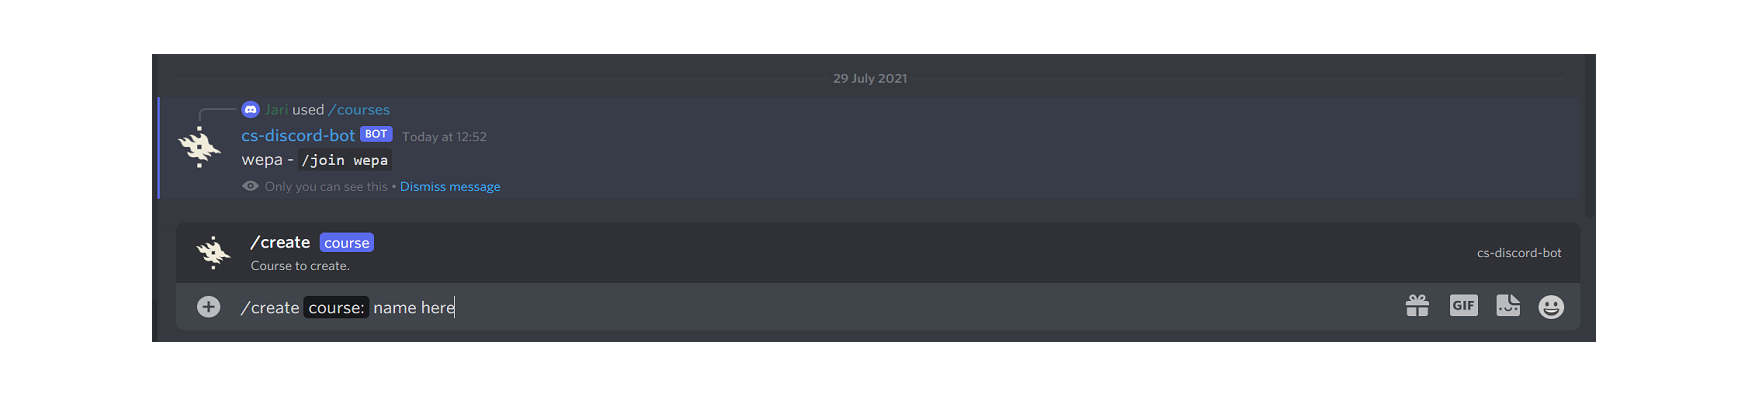
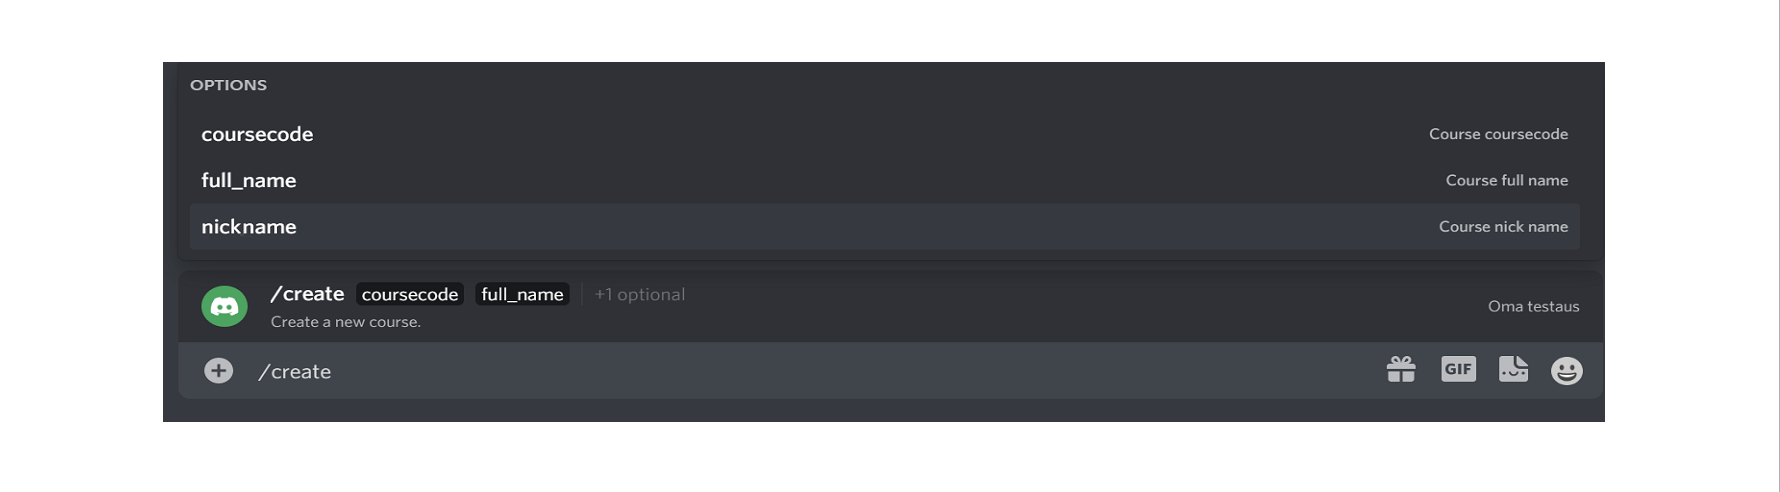
Update after sprint 6

Changed region(s): [[0.0615, 0.1188, 0.9226, 0.8614], [0.4613, 0.1782, 0.5228, 0.2079]]

diff --git a/documentation/usermanual-faculty.md b/documentation/usermanual-faculty.md
@@ -31,11 +31,19 @@ Commands can be used by typing to the bottom area `/` and after that the command
 
 ### Authentication
 
-To be able to use all the faculty commands, you need to authenticate yourself. Use command `/auth` and you receive an authentication link. Click the link and go through the verfication steps. Now you have the teacher role and you can use all the commands.
+To be able to use all the faculty commands, you need to authenticate yourself. Use command `/auth` and you receive an authentication link. Click the link and go through the verfication steps. Now you have the faculty role and you can use all the commands.
 
 ### Creating a new course
 
-You can create new course with command `/create`. Give the command and after that the course name. At the moment we prefer that you give course a short nick name because it is more readable on Discord for the users.
+You can create new course with command `/create`. Give the command and after that give the _course code_, course´s _full name_ and course´s _nickname_. Nickname is optional and if not given then the coursecode will be also course´s nickname. **Note** that nickname is the value that is used as course´s name that users see on the Discord´s left column. So, we prefer that you give course a short nickname because it is more readable on Discord for the users. **Note** also that nickname is unique value.
+
+#### Multilingual course name
+
+If your course has multilingual course name, enter all the information in the _full name_ field.
+
+#### Open university course
+
+If your course is an open university course, use the abbreviation **MOOC** in the _full name_ field next to your course name.
 
 ![create](./images/create.png)
 
@@ -43,11 +51,11 @@ After the course is created there is the invitation link for the course on the c
 
 ### Create Telegram bridge
 
-Today, many courses use Telegram discussion channels. At the moment there are students that might use only one of these platforms (Discord or Telegram). This is why we want to connect Discord and Telegram chat channels so everyone can see all the conversations. The following steps are made in Telegram.
+Today, many courses use Telegram discussion channels. At the moment there are students that might use only one of these platforms (Discord or Telegram). Therefore, we want to connect Discord and Telegram chat channels so everyone can see all the conversations. The following steps are made in Telegram.
 
 #### Add our Telegram bot to your Telegram channel
 
-Invite the **@Discord kurssibotti** bot to your Telegram channel. First go to your channel. From the right top corner choose three dots and from the drop down menu choose _Add members_.
+Invite the **@cs-discord-bot** bot to your Telegram channel. First go to your channel. From the right top corner choose three dots and from the drop-down menu choose _Add members_.
 
 Give the bot admin role (choose channel member and give the bot admin rights). You need to have an admin role to do this change. Under _What can this admin do?_ mark all the showing rights off.
 
@@ -73,30 +81,41 @@ The `/create` command automatically creates three sub-channels for the course. T
 
 ![newchannel](./images/newchannel.png)
 
-Note that the channel name you give is the end part of the name. For example in the picture new channel will be created with name _wepa_feedback_.
+Note that the channel name you give is the end part of the name. For example, in the picture new channel will be created with name _wepa_feedback_.
 
-To remove added text channel use `/removechannel` command followed by the name of the text channel to be removed e.g. `/removechannel feedback` removes _wepa_feedback_. This command must also be used inside the course you want the channel to be removed. Note that announcements or general channels can not be removed.
+To remove added text channel use `/removechannel` command followed by the name of the text channel to be removed e.g., `/removechannel feedback` removes _wepa_feedback_. This command must also be used inside the course you want the channel to be removed. Note that announcements or general channels can not be removed.
 
 ## How to make course secret
-Once the course is created, it can be made hidden. This means joining the course channel is only possible via link. To make a secret course use the `/hide` command followed by the course name. e.g. `/hide wepa`. The secret courses can be identified by the lock emoji. 
+Once the course is created, it can be made hidden. This means joining the course channel is only possible via link. To make a secret course use the `/hide` command followed by the course name. e.g.,, `/hide wepa`. The secret courses can be identified by the lock emoji. 
 
-To make the course public again use the `/unhide` command followed by the course name. e.g. `/unhide wepa`. Public courses can be found with `/courses` command and with `/join` command, unlike secret courses.
+To make the course public again use the `/unhide` command followed by the course name. e.g., `/unhide wepa`. Public courses can be found with `/courses` command and with `/join` command, unlike secret courses.
+
+## How to add instructor to a course
+Students can use the `/instructors` command on a course and see all the instructors on that course. _Faculty_ members and the ones who already have the _course instructor_ role can give other users this course instructor role. The command is `/addinstructor` the value to give is the username you want to give the instructor role. Use this command inside the course you want the role to be.
+
+## How to edit course name information
+
+The `/edit` command allows you to edit the information for the course you are in. You can change the _course code_, _full name_ and _nickname_. If you change the value users see on the Discord´s left column, this value is either the course code or nickname depending on which values the course is based on, you have 15 minutes cooldown until you can use the command again.
+
+![edit](./images/edit.png)
 
 ### List of commands
 
 Command | Explanation
 --------|-----------
-/auth | Returns the URL from which the teacher role can be requested.
-/create | Create a new course, e.g. /create weba.
-/hide | Make given course private, e.g. /hide weba.
-/unhide | Make given course public, e.g. /unhide weba.
-/newchannel | Create new text channel inside a course, e.g. /newchannel feedback.
-/removechannel | Remove given text channel inside a course, e.g. /removechannel feedback.
+/auth | Returns the URL where the faculty role can be obtained.
+/create | Create a new course. 
+/hide | Make given course private, e.g., /hide weba.
+/unhide | Make given course public, e.g., /unhide weba.
+/newchannel | Create new text channel inside a course, e.g., /newchannel feedback.
+/removechannel | Remove given text channel inside a course, e.g., /removechannel feedback.
 /courses | Returns a list of all courses.
+/edit | Edit course information, options; coursecode, full name, nickname
 /help | Returns a list of commands with info or info about a specific command.
 /instructors | Used in course channel returns a list of course instructors. Can be used anywhere when a parameter is given.
-/join | Joins you into the course given, e.g. /join ohpe.
-/leave | Remove you from the course given, e.g. /leave ohpe.
+/addinstructor | Give instructor role to another user, e.g., /addinstructor @username.
+/join | Joins you into the course given, e.g., /join ohpe.
+/leave | Remove you from the course given, e.g., /leave ohpe.
 
 ### Material
 

diff --git a/documentation/projectprogress.md b/documentation/projectprogress.md
@@ -1,17 +1,21 @@
 # Project progress
 
-[Product backlog](https://helsinkifi-my.sharepoint.com/:x:/g/personal/azkantol_ad_helsinki_fi/EcVicYGqMdlEjiGGg6eTTlIBMrOWm9k-SRlgXDEDUI_g5Q?e=oJJL4O&action=embedview&wdbipreview=true&wdHideSheetTabs=true&Item=ProductBacklog)
+[Product backlog](https://helsinkifi-my.sharepoint.com/:x:/g/personal/azkantol_ad_helsinki_fi/EXotXTenqklFnjJfmTqnzMoB6UpvxAZ4OACvC3MywKMIjQ?e=o8bycQ&action=embedview&wdbipreview=true&wdHideSheetTabs=true&Item=ProductBacklog)
 
-[Definition of Done](https://helsinkifi-my.sharepoint.com/:x:/g/personal/azkantol_ad_helsinki_fi/EcVicYGqMdlEjiGGg6eTTlIBMrOWm9k-SRlgXDEDUI_g5Q?e=oJJL4O&action=embedview&wdbipreview=true&wdHideSheetTabs=true&Item=DoD)
+[Definition of Done](https://helsinkifi-my.sharepoint.com/:x:/g/personal/azkantol_ad_helsinki_fi/EXotXTenqklFnjJfmTqnzMoB6UpvxAZ4OACvC3MywKMIjQ?e=o8bycQ&action=embedview&wdbipreview=true&wdHideSheetTabs=true&Item=DoD)
 
-[Sprint 4 backlog](https://helsinkifi-my.sharepoint.com/:x:/g/personal/azkantol_ad_helsinki_fi/EcVicYGqMdlEjiGGg6eTTlIBMrOWm9k-SRlgXDEDUI_g5Q?e=oJJL4O&action=embedview&wdbipreview=true&wdHideSheetTabs=true&Item=Sprint4)
+[Sprint 6 backlog](https://helsinkifi-my.sharepoint.com/:x:/g/personal/azkantol_ad_helsinki_fi/EXotXTenqklFnjJfmTqnzMoB6UpvxAZ4OACvC3MywKMIjQ?e=o8bycQ&action=embedview&wdbipreview=true&wdHideSheetTabs=true&Item=Sprint6)
 
-[Sprint 3 backlog](https://helsinkifi-my.sharepoint.com/:x:/g/personal/azkantol_ad_helsinki_fi/EcVicYGqMdlEjiGGg6eTTlIBMrOWm9k-SRlgXDEDUI_g5Q?e=oJJL4O&action=embedview&wdbipreview=true&wdHideSheetTabs=true&Item=Sprint3)
+[Sprint 5 backlog](https://helsinkifi-my.sharepoint.com/:x:/g/personal/azkantol_ad_helsinki_fi/EXotXTenqklFnjJfmTqnzMoB6UpvxAZ4OACvC3MywKMIjQ?e=o8bycQ&action=embedview&wdbipreview=true&wdHideSheetTabs=true&Item=Sprint5)
 
-[Sprint 2 backlog](https://helsinkifi-my.sharepoint.com/:x:/g/personal/azkantol_ad_helsinki_fi/EcVicYGqMdlEjiGGg6eTTlIBMrOWm9k-SRlgXDEDUI_g5Q?e=oJJL4O&action=embedview&wdbipreview=true&wdHideSheetTabs=true&Item=Sprint2)
+[Sprint 4 backlog](https://helsinkifi-my.sharepoint.com/:x:/g/personal/azkantol_ad_helsinki_fi/EXotXTenqklFnjJfmTqnzMoB6UpvxAZ4OACvC3MywKMIjQ?e=o8bycQ&action=embedview&wdbipreview=true&wdHideSheetTabs=true&Item=Sprint4)
 
-[Sprint 1 backlog](https://helsinkifi-my.sharepoint.com/:x:/g/personal/azkantol_ad_helsinki_fi/EcVicYGqMdlEjiGGg6eTTlIBMrOWm9k-SRlgXDEDUI_g5Q?e=oJJL4O&action=embedview&wdbipreview=true&wdHideSheetTabs=true&Item=Sprint1)
+[Sprint 3 backlog](https://helsinkifi-my.sharepoint.com/:x:/g/personal/azkantol_ad_helsinki_fi/EXotXTenqklFnjJfmTqnzMoB6UpvxAZ4OACvC3MywKMIjQ?e=o8bycQ&action=embedview&wdbipreview=true&wdHideSheetTabs=true&Item=Sprint3)
 
-[Sprint 0 backlog](https://helsinkifi-my.sharepoint.com/:x:/g/personal/azkantol_ad_helsinki_fi/EcVicYGqMdlEjiGGg6eTTlIBMrOWm9k-SRlgXDEDUI_g5Q?e=oJJL4O&action=embedview&wdbipreview=true&wdHideSheetTabs=true&Item=Sprint0)
+[Sprint 2 backlog](https://helsinkifi-my.sharepoint.com/:x:/g/personal/azkantol_ad_helsinki_fi/EXotXTenqklFnjJfmTqnzMoB6UpvxAZ4OACvC3MywKMIjQ?e=o8bycQ&action=embedview&wdbipreview=true&wdHideSheetTabs=true&Item=Sprint2)
 
-[Working hours](https://helsinkifi-my.sharepoint.com/:x:/g/personal/azkantol_ad_helsinki_fi/EcVicYGqMdlEjiGGg6eTTlIBMrOWm9k-SRlgXDEDUI_g5Q?e=oJJL4O&action=embedview&wdbipreview=true&wdHideSheetTabs=true&Item=Hours)
+[Sprint 1 backlog](https://helsinkifi-my.sharepoint.com/:x:/g/personal/azkantol_ad_helsinki_fi/EXotXTenqklFnjJfmTqnzMoB6UpvxAZ4OACvC3MywKMIjQ?e=o8bycQ&action=embedview&wdbipreview=true&wdHideSheetTabs=true&Item=Sprint1)
+
+[Sprint 0 backlog](https://helsinkifi-my.sharepoint.com/:x:/g/personal/azkantol_ad_helsinki_fi/EXotXTenqklFnjJfmTqnzMoB6UpvxAZ4OACvC3MywKMIjQ?e=o8bycQ&action=embedview&wdbipreview=true&wdHideSheetTabs=true&Item=Sprint0)
+
+[Working hours](https://helsinkifi-my.sharepoint.com/:x:/g/personal/azkantol_ad_helsinki_fi/EXotXTenqklFnjJfmTqnzMoB6UpvxAZ4OACvC3MywKMIjQ?e=o8bycQ&action=embedview&wdbipreview=true&wdHideSheetTabs=true&Item=Hours)

diff --git a/documentation/ci-cd-pipeline.md b/documentation/ci-cd-pipeline.md
@@ -1,14 +1,15 @@
 ## CI/CD Pipeline
 
+Both development and production vesions are running on University of Helsinki's staging server in a docker container.
+Watchtower running on the staging server watches for changes to the Docker Hub repository and in case there is an update, the container gets updated and restarted, launching a brand-new version of the bot.
+
 ### Continuous Integration (CI)
 
-Generally all code changes are made to dev branch with the exception of certain alternative/experimental approaches that might have their own branches. Once changes are pushed to GitHub, [the testing workflow](../.github/workflows/test.yml) starts. It runs eslint, jest and [corde](https://github.com/cordejs/corde) tests and updates the coverage report. The tokens and IDs that corde requires are stored as GitHub secrets and the tests are run on separate test server on Discord. Once the tests have passed on dev branch, a new version of staging docker image is pushed to DockerHub.
+Generally, all code changes are made to dev branch with the exception of certain alternative/experimental approaches and hotfixes that have their own branches. Dev branches use [Testing pipeline workflow](../.github/workflows/test.yml): runs eslint, jest tests and updates the coverage report and [Publish Docker image](../.github/workflows/publish.yml). Workflows are executed sequentially in away that if the Testing pipeline workflow passes then a new version of staging docker image is pushed to DockerHub.
 
 ### Continuous Deployment (CD)
 
-The bot is running on University of Helsinki's staging server in a docker container. Deployment happens by creating a pull request from dev to main branch which triggers the tests again. Once those have passed, one reviewer is needed before the branches can be merged. After merging, the tests run on main branch once again and after they have passed [the publish workflow](../.github/workflows/publish.yml) starts. Using GitHub secrets, it creates and pushes the image to DockerHub.
+Deployment requires pull request from dev to main, pass the Testing pipeline workflow and be approved by one reviewer. After merging workflows run on main branch and a new version of production docker image is pushed to DockerHub.
 
-Watchtower running on the staging server watches for changes to the Docker Hub repository and in case there is an update, the container gets pulled again and restarted, launching a brand new version of the bot.
-
-In case something unwanted gets deployed, the bot can be reverted back to an older version by simply re-running [a publish workflow](https://github.com/CS-DISCORD-BOT/cs-discord-bot/actions/workflows/publish.yml) of the desired version.
+In case something unwanted gets deployed, the bot can be reverted to an older version by simply re-running [a publish workflow](https://github.com/CS-DISCORD-BOT/cs-discord-bot/actions/workflows/publish.yml) of the desired version.
 

diff --git a/documentation/commands.md b/documentation/commands.md
@@ -1,34 +1,31 @@
-### BotName here
+### cs-discord-bot
 
-Bot has 7 commands.
-
-### Info commands
+### Admin commands
 
 ```
-!help           Show the list of the commands.
+/remove         Remove course channel given, e.g., /remove ohpe
 ```
 
-### Admin/Owner commands
+### Faculty commands
 
 ```
-nothing yet
+/create         Creates course channel given, e.g., /create ohpe
+/hide           Makes the course private, disabling joining with /join, e.g., /hide ohpe
+/newchannel     Adds a text channel for the course, e.g., /newchannel ohpe-questions
+/removechannel  Removes an added channel from the course, e.g., /removechannel ohpe-questions
+/unhide         Unhides a hidden course, making it public again, e.g., /unhide ohpe
 ```
 
-### Teacher commands
+### Faculty commands
+/addinstructor  Adds an instructor to the course, e.g., /addinstructor @user, used in a course channel.
+
+### Commands for everyone
 
 ```
-!remove         Remove course channel given, e.g. !remove ohpe
-!create         Creates course channel given, e.g. !create ohpe
+/auth           Gives you a link to click you can use to authenticate as faculty member.
+/courses        Prints out all the available courses.
+/help           Shows the list of available commands for your role.
+/intructors     Prints out the instructors of the course, e.g., /instructors in a course channel or /instructors ohpe
+/join           Adds you to the course given, e.g., /join ohpe
+/leave          Removes you from the course given, e.g., /leave ohpe
 ```
-
-### Student commands
-
-```
-!join           Joins you into the course given, e.g. !join ohpe
-!leave          Remove you from the course given, e.g. !leave ohpe
-!courses        Prints out all the courses
-!intructors     Prints out the instructors of the course. This command is available in most channels
-```
-
-
-

diff --git a/documentation/telegram.md b/documentation/telegram.md
@@ -4,7 +4,7 @@
 
 Go to Telegram and search and join the channel **@botfather**. You can see all the commands byt typing _/start_.
 
-Next type _/newbot_ and press enter. Give your bot a name, it must end in `bot`. Your bot is now ready and you should get this feedback:
+Next type _/newbot_ and press enter. Give your bot a name, it must end in `bot`. Your bot is now ready, and you should get this feedback:
 
 ![Telegram token](./images/telegramtoken.png)
 
@@ -12,18 +12,18 @@ Copy your token to `TELEGRAM_BOT_TOKEN` .env. Put your token value inside quotat
 
 ## Add your bot to your channel
 
-Invite your bot to your Telegram channel. First go to your channel. From the right top corner choose three dots and from the drop down menu choose _Add members_. Give your bot name and press add.
+Invite your bot to your Telegram channel. First go to your channel. From the right top corner choose three dots and from the drop-down menu choose _Add members_. Give your bot a name and press add.
 
 Give your bot admin role (choose channel member and give your bot admin rights). You need to have an admin role to do this change. Under _What can this admin do?_ mark all the showing rights off.
 
 ## Make the bridge
 
 On your telegram group that you want bridge to discord course `courseName` send command `/bridge <courseName>`.
-For example to bridge telegram group `tkt-tito` to discord course `tito` use command `/bridge tito` in telegram group.
+For example, to bridge telegram group `tkt-tito` to discord course `tito` use command `/bridge tito` in telegram group.
 
 Bot answers
 ```
-Brigde created: Discord course <courseName> <--> Telegram course <telegramGroup>
+Bridge created: Discord course <courseName> <--> Telegram course <telegramGroup>
 ```
 if bridge is created successfully.
 

diff --git a/documentation/usermanual-student.md b/documentation/usermanual-student.md
@@ -56,7 +56,7 @@ General - main discussion area.
 
 Voice - you can hang out over voice and video.
 
-If you want to see who are the teachers on your course, you can use command `/instructors`.
+If you want to see who are the instructors on your course, you can use command `/instructors`.
 
 ![instructors](./images/instructors.png)
 
@@ -64,11 +64,12 @@ If you want to see who are the teachers on your course, you can use command `/in
 
 Command | Explanation
 --------|-----------
+/auth | Command for faculty members with student role.
 /courses | Returns a list of all courses.
 /help | Returns a list of commands with info or info about a specific command.
-/instructors | Used in course channel returns a list of course instructors. Can be used anywhere when a parameter is given.
-/join | Joins you into the course given, e.g. /join ohpe.
-/leave | Remove you from the course given, e.g. /leave ohpe.
+/instructors | Returns a list of course instructors. With agrument, the command can be used anywhere otherwise only on course channels.
+/join | Joins you into the course given, e.g., /join ohpe.
+/leave | Remove you from the course given, e.g., /leave ohpe.
 
 ### Material
 

diff --git a/documentation/OAuth2.md b/documentation/OAuth2.md
@@ -20,18 +20,16 @@ Select correct redirect url from drop down menu. From the scopes select **indent
 
 ### Redirects
 
-Set redirect to **<backend_server_url>/discordAuth** to `DISCORD_REDIRECT_URL`, e.g. if you are using local server use **http://localhost:3000/discordAuth**
+Set redirect to **<backend_server_url>/discordAuth** to `DISCORD_REDIRECT_URL`, e.g., if you are using local server use **http://localhost:3000/discordAuth**
 
-### Backend server url
+### Backend server URL
 
 From Discord add your default discord server invite to .env `DISCORD_SERVER_INVITE`. This can be found from the _#guide_ channel.
 
-Add your backend server url to `BACKEND_SERVER_URL`, e.g. if you are using local server use **http://localhost**.
+Add your backend server url to `BACKEND_SERVER_URL`, e.g., if you are using local server use **http://localhost**.
 
-Add your local port to `PORT`, e.g. 3000.
+Add your local port to `PORT`, e.g., 3000.
 
 ### Session secret
 
 Give `SESSION_SECRET` any value you want to use.
-
-

diff --git a/documentation/discordserver.md b/documentation/discordserver.md
@@ -2,9 +2,9 @@
 
 ## New server
 
-Before you can create a Discord server, you need to creat yourself Discord account. You can do this on [Discord Website](https://discord.com/). If you already have the the account, just login.
+Before you can create a Discord server, you need to create yourself Discord account. You can do this on [Discord Website](https://discord.com/). If you already have the the account, just login.
 
-Click the "+" button on the left hand column.
+Click the "+" button on the left-hand column.
 
 ![Create server](./images/newserver.png)
 

diff --git a/documentation/workflow.md b/documentation/workflow.md
@@ -76,8 +76,6 @@ Markdown guide [Basic writing and formatting syntax](https://docs.github.com/en/
 
 Discord bot [file structure](https://discordjs.guide/command-handling/#individual-command-files).
 
-Testing with corde [cordejs](https://github.com/cordejs/corde)
-
 Testing with jest [jestjs.io docs](https://jestjs.io/docs/getting-started)
 
 JavaScript for Programmers [Course](http://nicholasjohnson.com/javascript/javascript-for-programmers/)

diff --git a/documentation/developerlinks.md b/documentation/developerlinks.md
@@ -5,8 +5,6 @@
 
 [Setup for the Bot](./setupmainbot.md)
 
-[Setup for testing Bot](./setuptestbot.md)
-
 [Setup for the backend](./OAuth2.md)
 
 [Setup for the Telegram bridge](./telegram.md)
@@ -26,5 +24,3 @@
 [Discord Developer Portal](https://discord.com/developers/docs/intro)
 
 [The Modern JavaScript Tutorial](https://javascript.info/)
-
-[Corde Documentation](https://cordejs.org/docs/)
